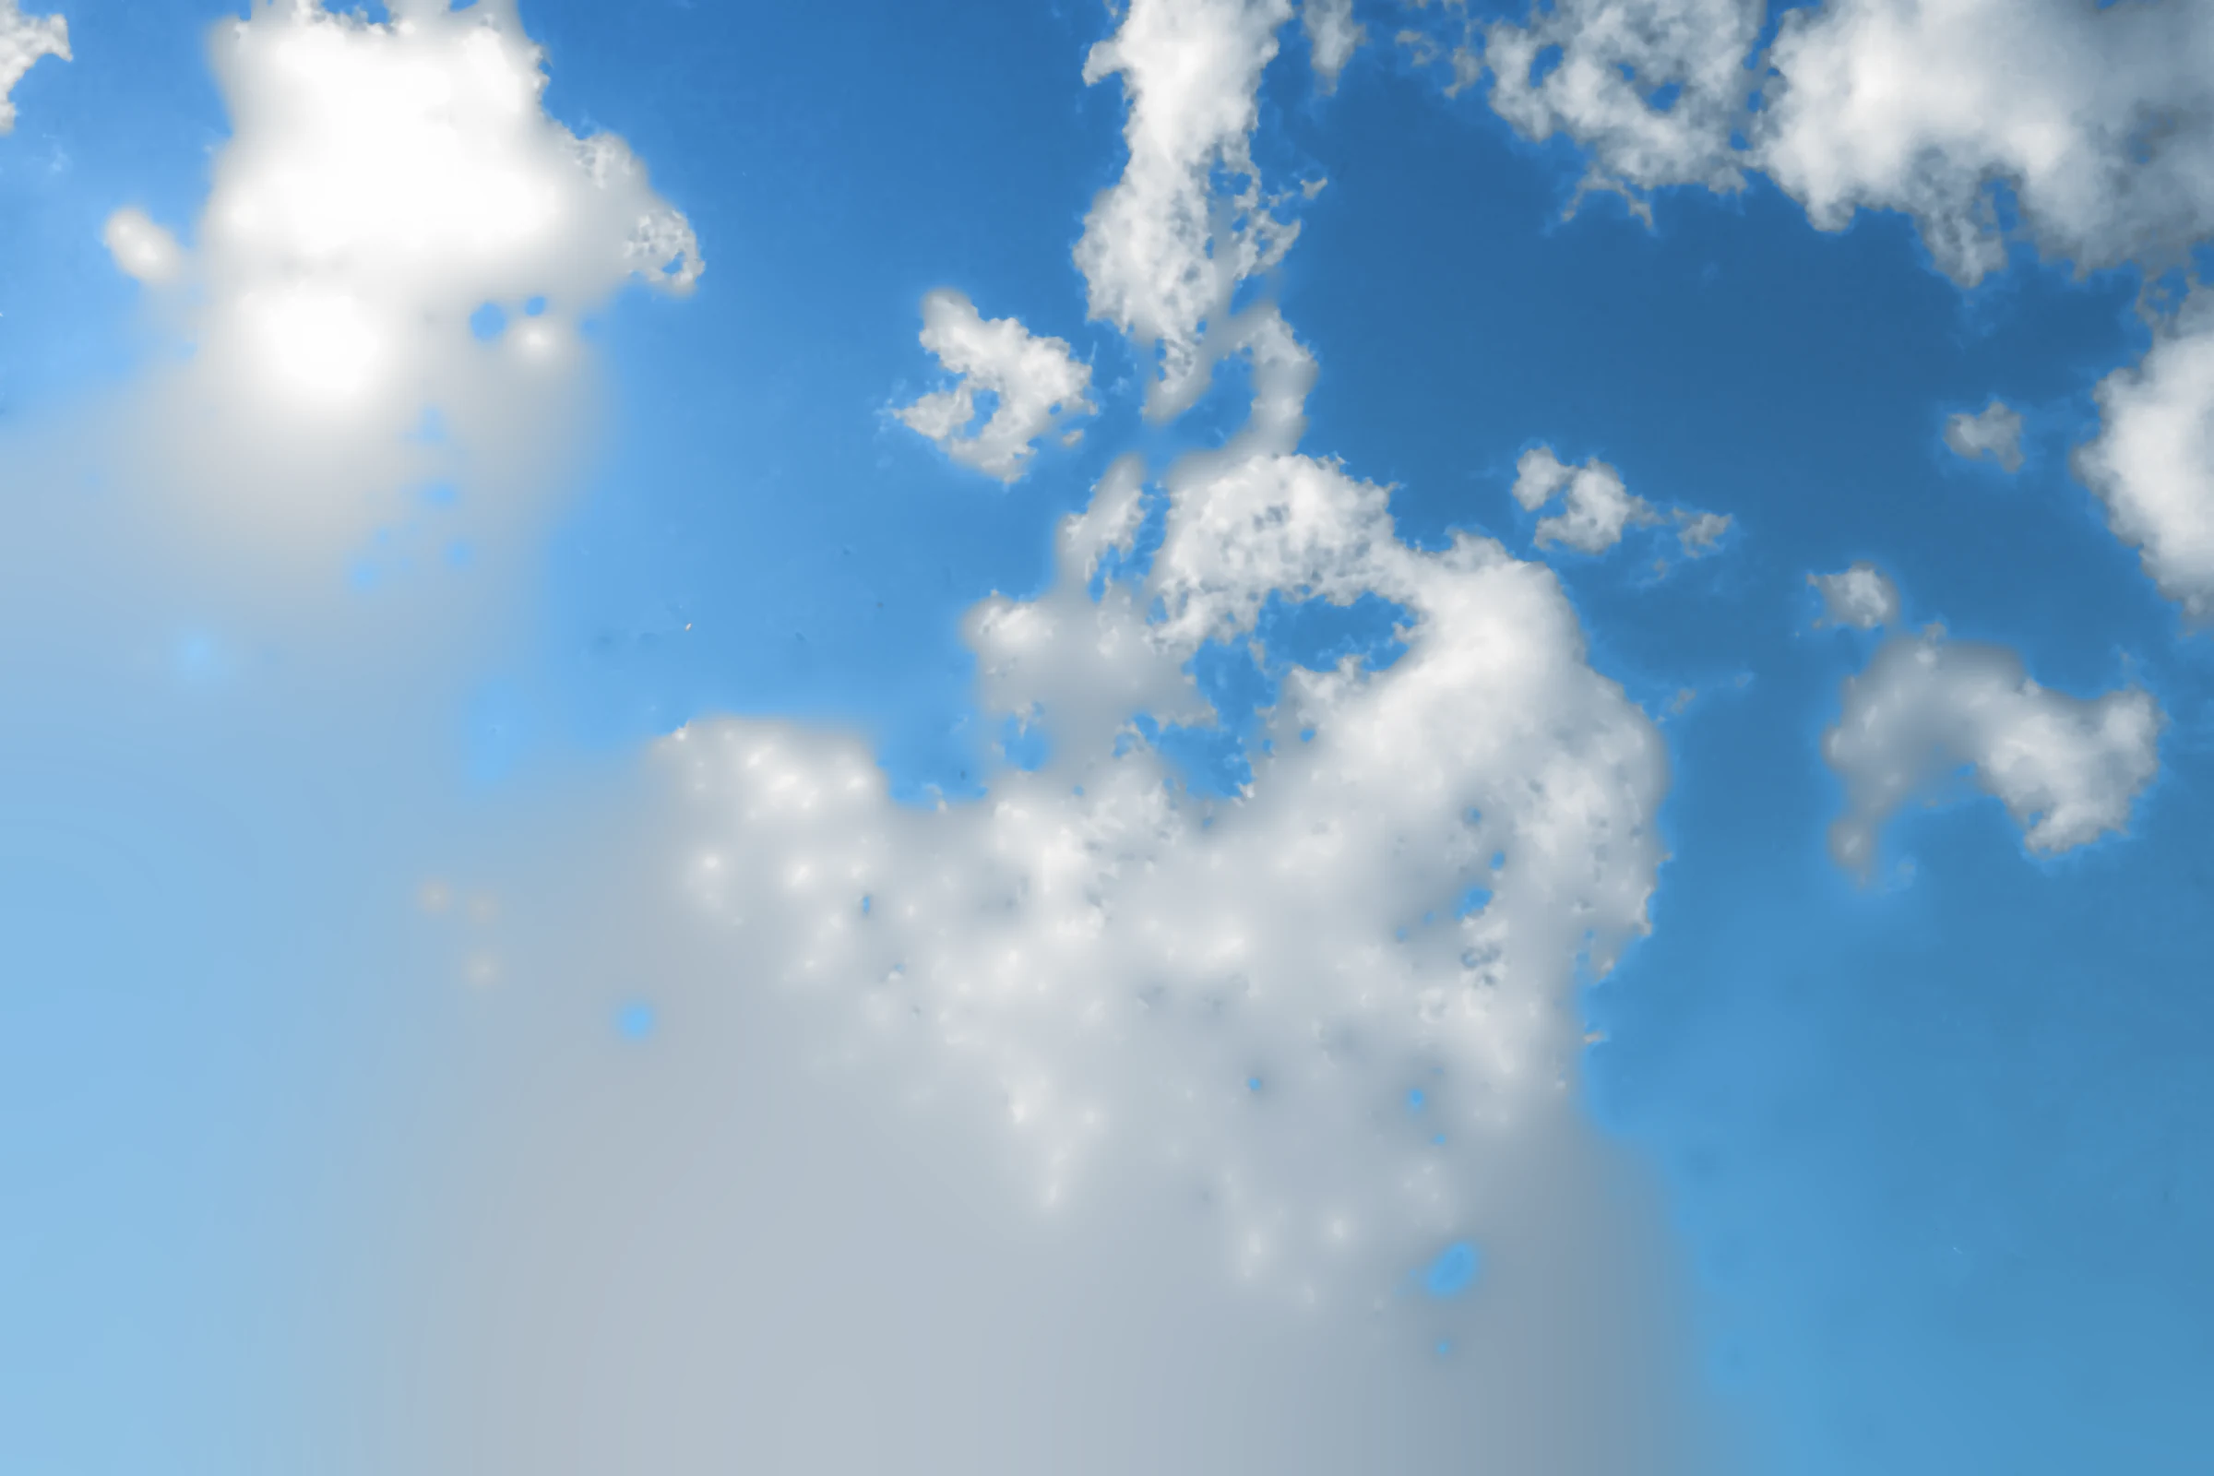
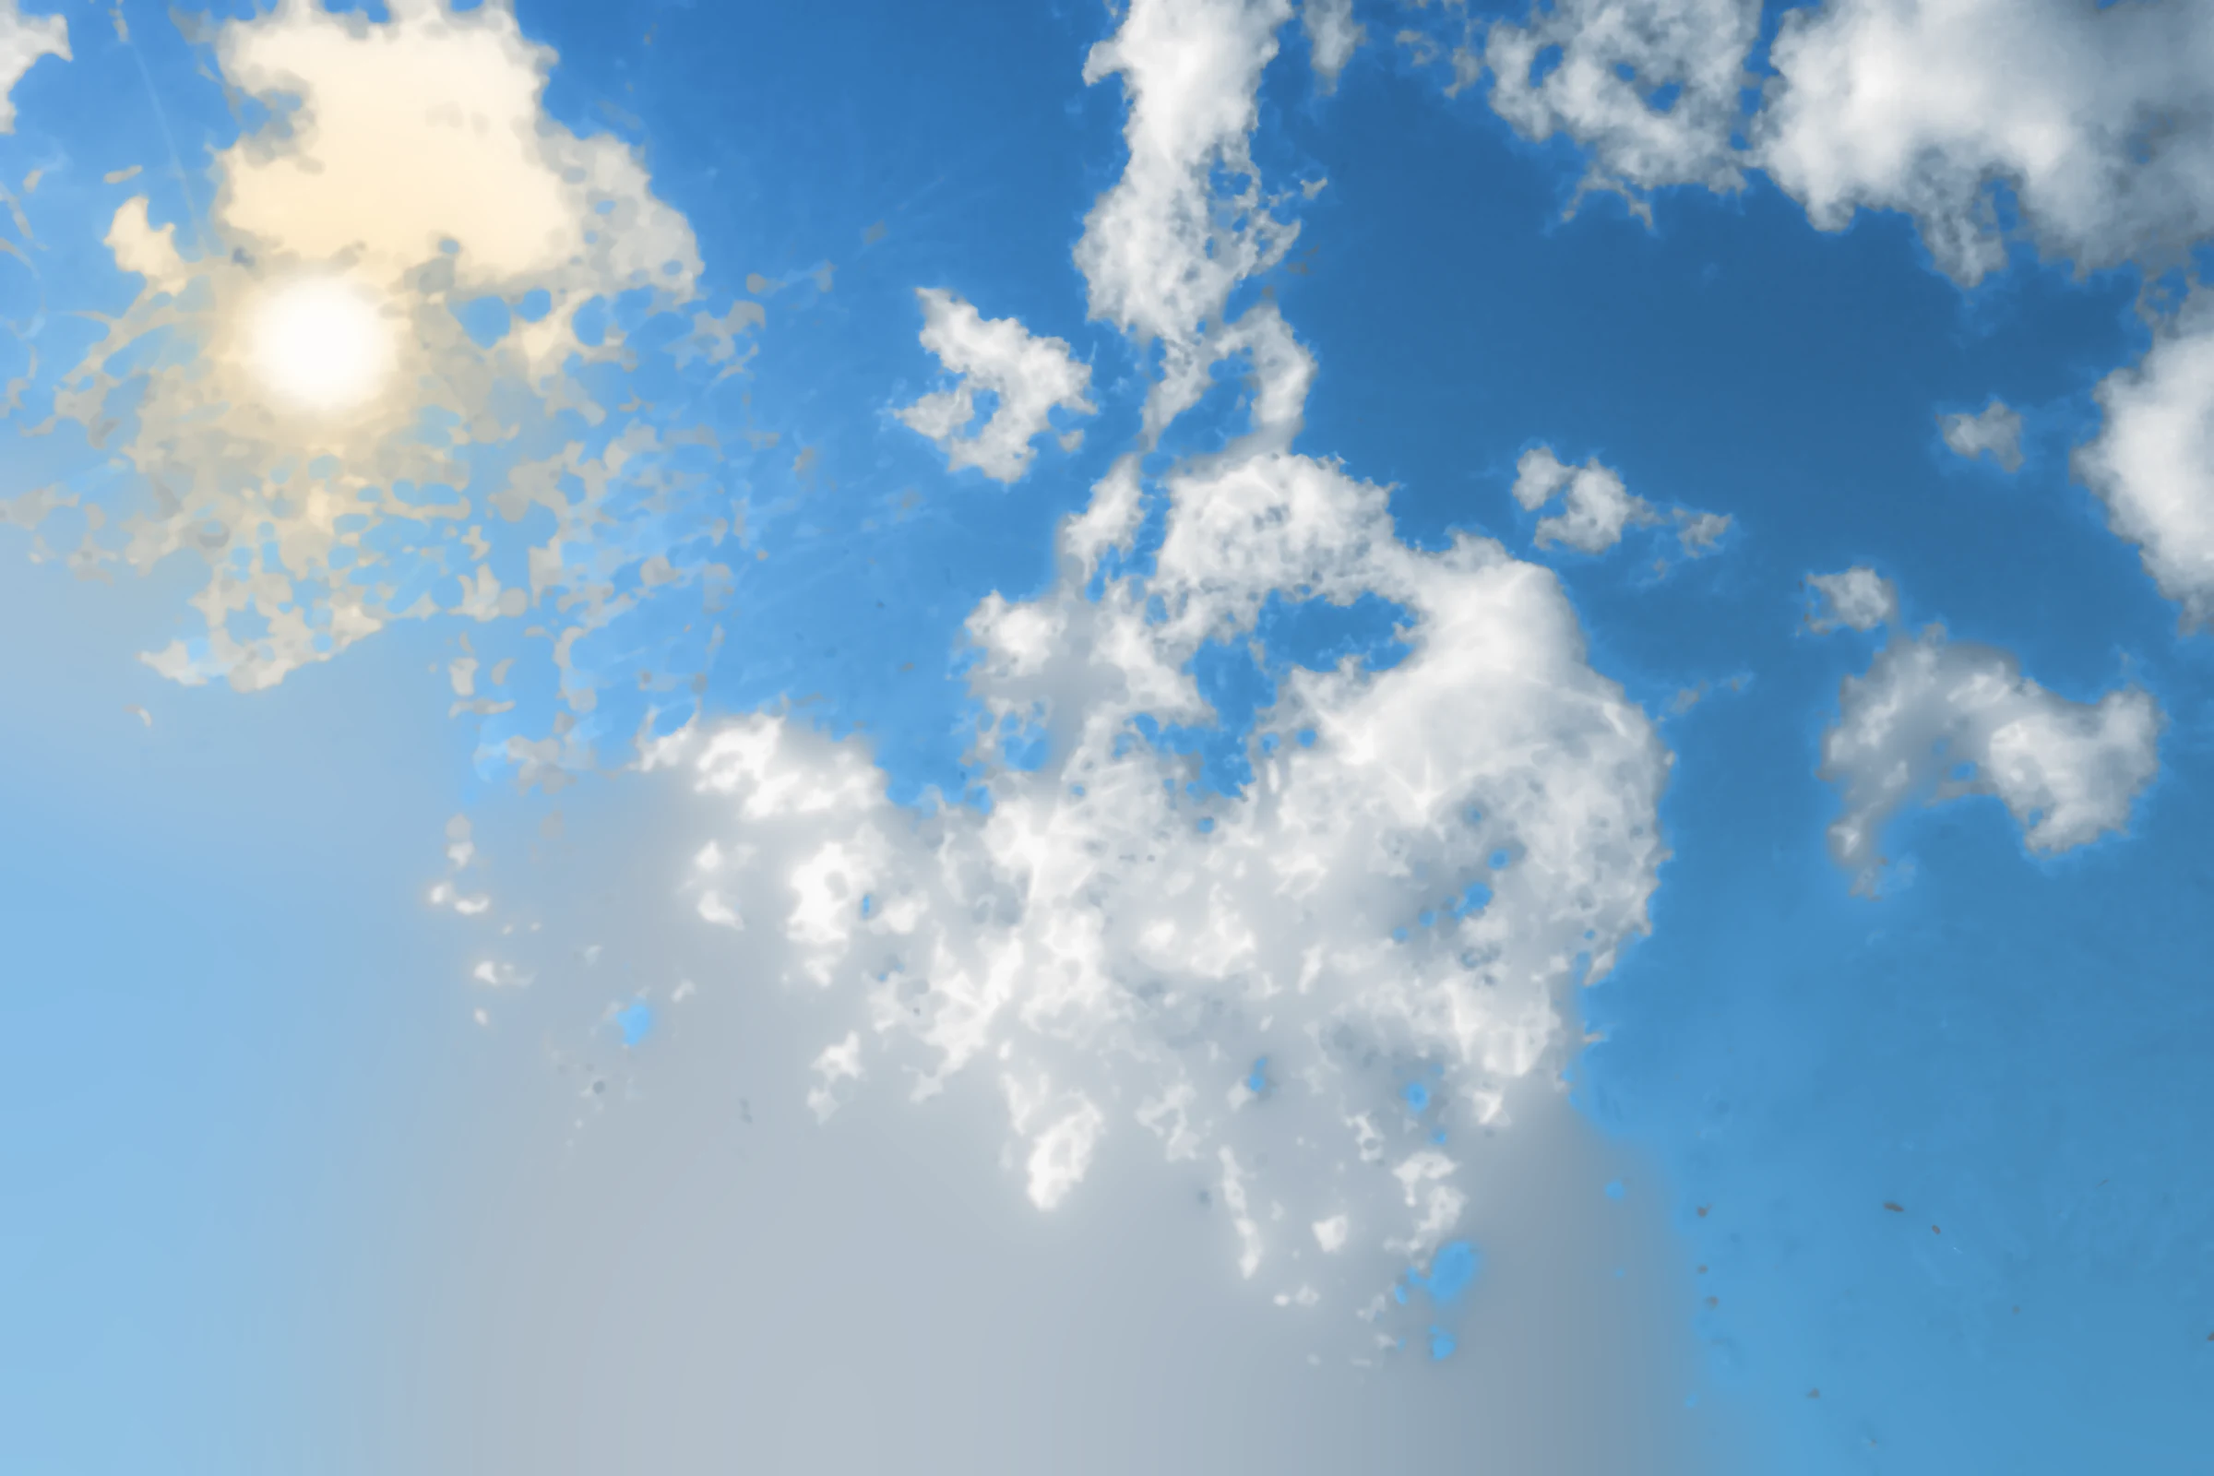
Lab: climb kaze round 3
Claude-Session: https://claude.ai/code/session_01RqENhngNCzDFmJWDZueXGV

diff --git a/src/app/lab/kaze/kazeEngine.js b/src/app/lab/kaze/kazeEngine.js
@@ -47,7 +47,7 @@ in vec2 vUv;
 out vec4 outColor;
 uniform sampler2D uPlate;  // the grass, sky unmixed out of it
 uniform sampler2D uSky;    // the sky behind it
-uniform sampler2D uAux;    // r coverage, g lever
+uniform sampler2D uAux;    // r coverage, g lever, b highlight diffusion (sqrt)
 uniform sampler2D uWind;   // GX x GY: bend.xy, wind.xy (m/s)
 uniform float uTime;
 uniform float uCloudT;     // cloud flow clock
@@ -132,9 +132,9 @@ void main() {
   float blue = smoothstep(0.02, 0.15, sky.b - sky.r);
   sky *= mix(vec3(1.0), vec3(0.94, 0.97, 1.0), blue * zen);
   // A print's white is not the sun's: the near-white of the lit cloud and
-  // the sun's disc carry on past paper white, so they glow and scatter.
+  // the sun's disc carry on past paper white, into the shoulder, warm.
   float hl = smoothstep(0.6, 1.0, max(sky.r, max(sky.g, sky.b)));
-  sky *= 1.0 + 0.25 * hl * hl;
+  sky *= 1.0 + vec3(0.3, 0.27, 0.2) * hl * hl;
 
   // The grass a touch cooler, the way Superia keeps greens under a deep sky;
   // its colour is left whole, so the diffusion veil over it bleeds green.
@@ -150,6 +150,13 @@ void main() {
   // thin warm ring: the light bounced back off the base, just past the edge.
   float rim = clamp(4.0 * a * (1.0 - a), 0.0, 1.0);
   col += vec3(1.0, 0.42, 0.16) * 0.16 * glow * rim;
+  // The highlight shoulder's diffusion: only the light above the threshold
+  // (the sun, the lit cloud tops; baked, aux.b) spreads, warm, over the sky
+  // and a little over the blades in front of it, so they hold as dark
+  // silhouettes with the sun bleeding round them. Nothing below it is lifted.
+  float dif = textureLod(uAux, uv, uLod).b;
+  dif *= dif;
+  col += vec3(1.0, 0.8, 0.55) * 0.55 * dif * mix(1.0, 0.35, a);
   if (uDebug > 0.5) col = mix(col, vec3(1.0, 0.2, 0.1), clamp(length(b) * lever * 1.5, 0.0, 1.0) * a);
   outColor = vec4(col * uExpo, 1.0);
 }`;
@@ -434,20 +441,23 @@ export async function createKaze(host) {
       sceneT.tex,
       {
         ...FILM_PRESETS.summer,
-        // Soft, bleeding colour, not a phone's clarity: a wider diffusion
-        // veil and dye-cloud bleed, and a halation threshold low enough that
-        // the cloud tops and the sunlit edges of the blades against them take
-        // a thin warm ring. The sky's depth is in the bake, so the stock's
-        // blue deepening is kept light.
-        bloom: 0.24,
-        softness: 0.7,
+        // No global veil: the diffusion is the scene's own thresholded
+        // highlight shoulder (aux.b), so the blacks stay down and the grass
+        // keeps its colour. A little optical softness and dye-cloud bleed,
+        // and a halation threshold low enough that the cloud tops and the
+        // sunlit edges of the blades against them take a thin warm ring.
+        // The sky's depth is in the bake, so the stock's blue deepening is
+        // kept light.
+        bloom: 0,
+        softness: 0.45,
         halation: 0.6,
         halationThreshold: 0.6,
         halationColor: [1, 0.32, 0.12],
         halationLocal: 0.4,
-        contrast: 1.12,
+        contrast: 1.14,
+        toe: 0.022,
         blueDepth: 0.25,
-        saturation: 1.0,
+        saturation: 1.1,
         input: floatOk && sceneT.ok ? "linear" : "srgb",
         grainSeed,
       },

diff --git a/tools/depth/bakes/kaze/bake.py b/tools/depth/bakes/kaze/bake.py
@@ -24,7 +24,10 @@ Outputs (public/lab/kaze/):
                   G lever, how far that pixel swings when the stalk bends:
                   grows with height in the frame (the roots are below it) and
                   with how open the sky is around it (lone stalks and seed heads
-                  swing, the dense mat at the bottom barely moves), B 0
+                  swing, the dense mat at the bottom barely moves), B the
+                  highlight shoulder's diffusion (sqrt): only the light above a
+                  threshold (the sun, the lit cloud tops) spread wide, so the
+                  runtime glows the sun without a veil over the whole frame
 
 The grade. The source is a phone photo with clarity and sharpening on it: a
 dark teal sky, crunchy cloud, gritty olive grass. The bake takes the local
@@ -86,6 +89,7 @@ yy, xx = np.mgrid[0:H, 0:W].astype(np.float32)
 box = kit.smoothstep(0.77 * W, 0.8 * W, xx) * (1 - kit.smoothstep(0.235 * H, 0.255 * H, yy))
 s = np.maximum(s, box)
 a = 1 - s
+aseg = a.copy()
 L = lin(rgb)
 
 # ---- the matte, firmed by what the photo says ----
@@ -120,20 +124,89 @@ asun = kit.smoothstep(0.03, 0.1, warm) * (0.4 + 0.6 * bs) + 0.6 * bs * kit.smoot
 asun = kit.blur(np.clip(asun, 0, 1), 0.6)
 a = np.maximum(a, asun * sun)
 
+# ---- the sky behind, as the photograph has it ----
+# A grey closing lifts every thin dark thing (blade, awn, seed head) out of
+# the photo and keeps the cloud's own texture round it: the sky that was
+# behind them, not a smooth blot. Where the closing still leaves something
+# greener or darker than the smooth fill (a blade too broad for it), the
+# smooth fill stands.
+YS0 = np.maximum(kit.luma(S0), 1e-3)
+halo = 1 - kit.smoothstep(0.03 * W, 0.22 * W, rr)
+hz = (1 - kit.smoothstep(0.2 * W, 0.28 * W, rr))[..., None]
+# (in the sun's halo the sky is near white, so a closing that went grey
+# behind a tuft is caught sooner)
+dlo, dhi = 0.1 - 0.06 * hz[..., 0], 0.25 - 0.13 * hz[..., 0]
+
+
+def unsky(C):
+    """Where a closing still holds grass: greener or darker than the fill."""
+    Ce = enc(C)
+    m = np.maximum(
+        kit.smoothstep(0.02, 0.06, (Ce[..., 1] - Ce[..., 2]) - (S0e[..., 1] - S0e[..., 2])),
+        np.clip(((YS0 - kit.luma(C)) / YS0 - dlo) / (dhi - dlo), 0, 1),
+    )
+    return kit.blur(kit.dilate(m > 0.5, 3).astype(np.float32), 2)[..., None]
+
+
+Cl = cv2.morphologyEx(L, cv2.MORPH_CLOSE, kit.disk(7))
+bad = unsky(Cl)
+# (in the sun's halo, a wider closing first: the seed heads there are broad,
+# and the smooth fill would set grey-blue blots in the lit cloud)
+Cl2 = cv2.morphologyEx(L, cv2.MORPH_CLOSE, kit.disk(15))
+w2 = hz * (1 - unsky(Cl2))
+B = Cl * (1 - bad) + (Cl2 * w2 + S0 * (1 - w2)) * bad
+
+# The dark-object prior. Against a near-white sky the unmixing reads a dark
+# blade as half sky (it is half as bright as the cloud behind it), so the
+# brome and seed heads over the sun and the lit cloud came out as ghosts.
+# A blade is opaque: where a pixel the matte already calls grass is clearly
+# darker, or clearly greener, than the sky inpainted behind it, it is all
+# blade. The ramps leave the outermost edge pixel its share.
+YB = np.maximum(kit.luma(B), 1e-3)
+Be = enc(B)
+dk = (YB - kit.luma(L)) / YB
+gr = gb - (Be[..., 1] - Be[..., 2])
+# (and the darkness has to be a blade's: thin, a line darker than what is on
+# either side of it, not the grey shading of a cloud that the segmenter
+# smeared round a stalk)
+YL = kit.luma(L)
+Yc = cv2.morphologyEx(YL, cv2.MORPH_CLOSE, kit.disk(5))
+dks = (Yc - YL) / np.maximum(Yc, 1e-3)
+force = np.maximum(kit.smoothstep(0.07, 0.18, dk) * kit.smoothstep(0.05, 0.12, dks), kit.smoothstep(0.03, 0.08, gr))
+# (only on what is already grass by the segmenter, by colour or in the sun's
+# flare: never a dark cell of cloud the darkness test alone flagged)
+# a stalk, not a speck: the segmenter's lone flecks in a cloud stay as they were
+seen = ((aseg > 0.3) | (acol > 0.5)).astype(np.uint8)
+n, lab, stats, _ = cv2.connectedComponentsWithStats(seen, connectivity=8)
+big = (stats[:, cv2.CC_STAT_AREA] >= 400) & (np.arange(n) > 0)
+grassy = big[lab] | (asun * sun > 0.12)
+force = force * kit.dilate(grassy, 1) * (1 - box)
+a = np.maximum(a, force)
+
 # ---- the sky: only where it is surely open, filled behind everything else ----
 # (no unmixed remainder: that is what drew the blades' ghosts into the sky)
 # (in the sun's flare, the faint ends of the blades as well)
 sure = kit.erode((a < 0.04) & ~kit.dilate((bh > 0.02) & (sun > 0.05), 2), 2).astype(np.float32)
-S = kit.pushpull(L, sure)
-# the fill behind the grass is soft haze and cloud, not blotches
+P = kit.pushpull(L, sure)
 fillk = 1 - kit.blur(sure, 3)
-S = S * (1 - fillk[..., None]) + kit.blur(S, 9) * fillk[..., None]
-# and the photo's own sky comes back in only where enough of it is open: a
-# lone gap of cloud between blades, set in the soft fill, read as a sparkle
-# (and feathered in, so a gap does not come back as a hard-edged blot)
-dens = kit.smoothstep(0.2, 0.6, kit.blur(sure, 10))
-wsky = np.minimum(sure, kit.blur(sure * dens, 2.5))[..., None]
+P = P * (1 - fillk[..., None]) + kit.blur(P, 9) * fillk[..., None]
+# Behind thin grass the sky is the closing's (the cloud texture runs on
+# behind the blade); behind a mass too broad for it, the soft fill.
+thick = kit.blur(kit.dilate(kit.erode(a > 0.5, 7), 9).astype(np.float32), 4)[..., None]
+Bs = cv2.morphologyEx(B, cv2.MORPH_OPEN, kit.disk(1))
+S = kit.blur(Bs, 1.2) * (1 - thick) + P * thick
+# and the photo's own sky comes back in wherever it is surely open
+# (feathered in, so a gap does not come back as a hard-edged blot)
+wsky = np.minimum(sure, kit.blur(sure, 1.5))[..., None]
 S = L * wsky + S * (1 - wsky)
+# In the sun's halo, any seed or awn too faint for the matte would hang
+# still in the glare as a dark speck: the closing's sky takes its place.
+spk = kit.smoothstep(0.02, 0.07, dk) * hz[..., 0]
+spk = kit.blur(spk.astype(np.float32), 1.0)[..., None]
+S = S * (1 - spk) + kit.blur(Bs, 1.2) * spk
+# and a backlit hair of a stalk the matte missed (a thin line brighter than
+# the sky) is lifted out by a small opening
+S = S * (1 - hz) + cv2.morphologyEx(S, cv2.MORPH_OPEN, kit.disk(2)) * hz
 # the last specks of seed and awn the matte let through are cloud, not grass
 # (they would hang still while the grass moves): a small closing lifts them
 S = cv2.morphologyEx(S, cv2.MORPH_CLOSE, kit.disk(2))
@@ -145,8 +218,12 @@ wF = kit.smoothstep(0.55, 0.95, a)
 F = kit.pushpull(Fu, wF)
 F = np.where(a[..., None] > 0.95, L, F)
 # Blades crossing the sun are backlit: darker than the flare, warm.
-sunb = (sun * kit.smoothstep(0.1, 0.4, asun))[..., None]
-F = F * (1 - sunb) + np.minimum(F, L * 0.42 * np.array([1.0, 0.9, 0.62], np.float32)) * sunb
+# The flare's veil is taken back off them, most at the disc, so the brome
+# and seed heads crossing the sun stand as solid dark silhouettes (the film
+# pass's threshold diffusion then bleeds a little of the sun back over them).
+sunb = np.maximum(sun * kit.smoothstep(0.1, 0.4, asun), halo * force)[..., None]
+deep = (0.22 + 0.26 * kit.smoothstep(0.02 * W, 0.2 * W, rr))[..., None]
+F = F * (1 - sunb) + np.minimum(F, L * deep * np.array([1.0, 0.9, 0.72], np.float32)) * sunb
 
 # Re-solve the coverage against the decontaminated grass and the clean sky,
 # so a F + (1 - a) S still recomposes the photograph wherever the colours
@@ -160,6 +237,20 @@ an = proj * conf + a * (1 - conf)
 # colour as a blade does not become grass), and the sun's blades as found
 an = np.minimum(an, a + 0.1)
 an = np.where(sunb[..., 0] > 0.05, np.maximum(an, a * sunb[..., 0]), an)
+# and what the dark-object prior called solid stays solid
+an = np.maximum(an, force)
+# The converse: a bright, neutral pixel with no line in it (lit cloud) that
+# the segmenter smeared round a stalk is sky, whatever the matte said, or it
+# rides along with the stalk as a pale blot when the wind takes it.
+cloudish = kit.smoothstep(0.35, 0.55, YL) * (1 - kit.smoothstep(0.04, 0.1, dks)) * (1 - kit.smoothstep(0.02, 0.06, gr))
+cloudish = cloudish * (1 - force) * (1 - hz[..., 0])
+an = an * (1 - 0.9 * cloudish)
+# In the glare, the loose flecks the flare detector found (a few pixels of
+# seed or awn on their own) read as dust on the print, not as grass: they go
+# to the sky, where the closing has already lifted them out.
+n, lab, stats, _ = cv2.connectedComponentsWithStats((an > 0.3).astype(np.uint8), connectivity=8)
+fleck = ((stats[:, cv2.CC_STAT_AREA] < 60) & (np.arange(n) > 0))[lab]
+an = np.where(fleck & (hz[..., 0] > 0.5), 0, an)
 # a whisker of erosion: the outermost, faintest edge goes to the sky
 an = np.clip((an - 0.03) / 0.97, 0, 1)
 a = an
@@ -184,6 +275,15 @@ blue = rgb_of(hb, sb, vb)
 shade = 1 - kit.smoothstep(0.55, 0.96, v)
 cloud = rgb_of(np.full_like(v, 207), 0.3 * shade, v + 0.06 * shade * (1 - v))
 Se = cloud * (1 - wb[..., None]) + blue * wb[..., None]
+# The sun's quadrant: the cloud and the pale sky in its halo keep their own
+# texture and take its colour, rolling off through warm white (#FFF3DE) to a
+# white-hot disc, instead of the grade's neutral cloud white.
+core = 1 - kit.smoothstep(0.012 * W, 0.045 * W, rr)
+hot = kit.smoothstep(0.45, 0.95, kit.luma(Se)) * (1 - kit.smoothstep(0.02 * W, 0.24 * W, rr))
+tint = np.array([1.0, 0.93, 0.8], np.float32) * (1 - core[..., None]) + np.array([1.0, 0.99, 0.965], np.float32) * core[..., None]
+warmS = Se * tint
+warmS = warmS + (1 - warmS) * (0.5 * core)[..., None] * tint
+Se = Se * (1 - hot[..., None]) + warmS * hot[..., None]
 S = lin(Se)
 # Halation, the thin part of it: light through the emulsion bounced back off
 # the base comes up as a fine warm ring just outside the lit cloud tops. (The
@@ -215,8 +315,17 @@ lever = kit.blur(lever.astype(np.float32), 10)
 
 Image.fromarray((enc(F) * 255 + 0.5).astype(np.uint8)).save(os.path.join(out, "plate.webp"), quality=90, method=6)
 Image.fromarray((enc(S) * 255 + 0.5).astype(np.uint8)).save(os.path.join(out, "sky.webp"), quality=88, method=6)
-aux = np.dstack([a, lever, np.zeros_like(a)])
+# The highlight shoulder's diffusion. Only light above a threshold scatters
+# (a Pro-Mist over a summer sun, not a veil over everything): what the open
+# sky lets through of the sun and the lit cloud tops, the disc itself carried
+# far past paper white, spread at three widths. The runtime adds it warm, so
+# the blacks and the grass keep their depth away from the light.
+glowsrc = np.maximum(kit.luma(S) - 0.62, 0) * (1 - a) * (1 + 14 * core)
+glow = 0.3 * kit.blur(glowsrc, 0.006 * W) + 0.35 * kit.blur(glowsrc, 0.025 * W) + 0.35 * kit.blur(glowsrc, 0.07 * W)
+gmax = float(glow.max())
+glow = np.sqrt(np.clip(glow / gmax, 0, 1))
+aux = np.dstack([a, lever, glow])
 Image.fromarray((np.clip(aux, 0, 1) * 255 + 0.5).astype(np.uint8)).save(os.path.join(out, "aux.webp"), lossless=True, method=6)
-print("sun at %d,%d; sky %.1f%%, lever mean %.2f" % (sx, sy, s.mean() * 100, lever.mean()))
+print("sun at %d,%d; sky %.1f%%, lever mean %.2f, glow max %.3f" % (sx, sy, s.mean() * 100, lever.mean(), gmax))
 for f in sorted(os.listdir(out)):
     print("  %-12s %7.1f KB" % (f, os.path.getsize(os.path.join(out, f)) / 1024))
